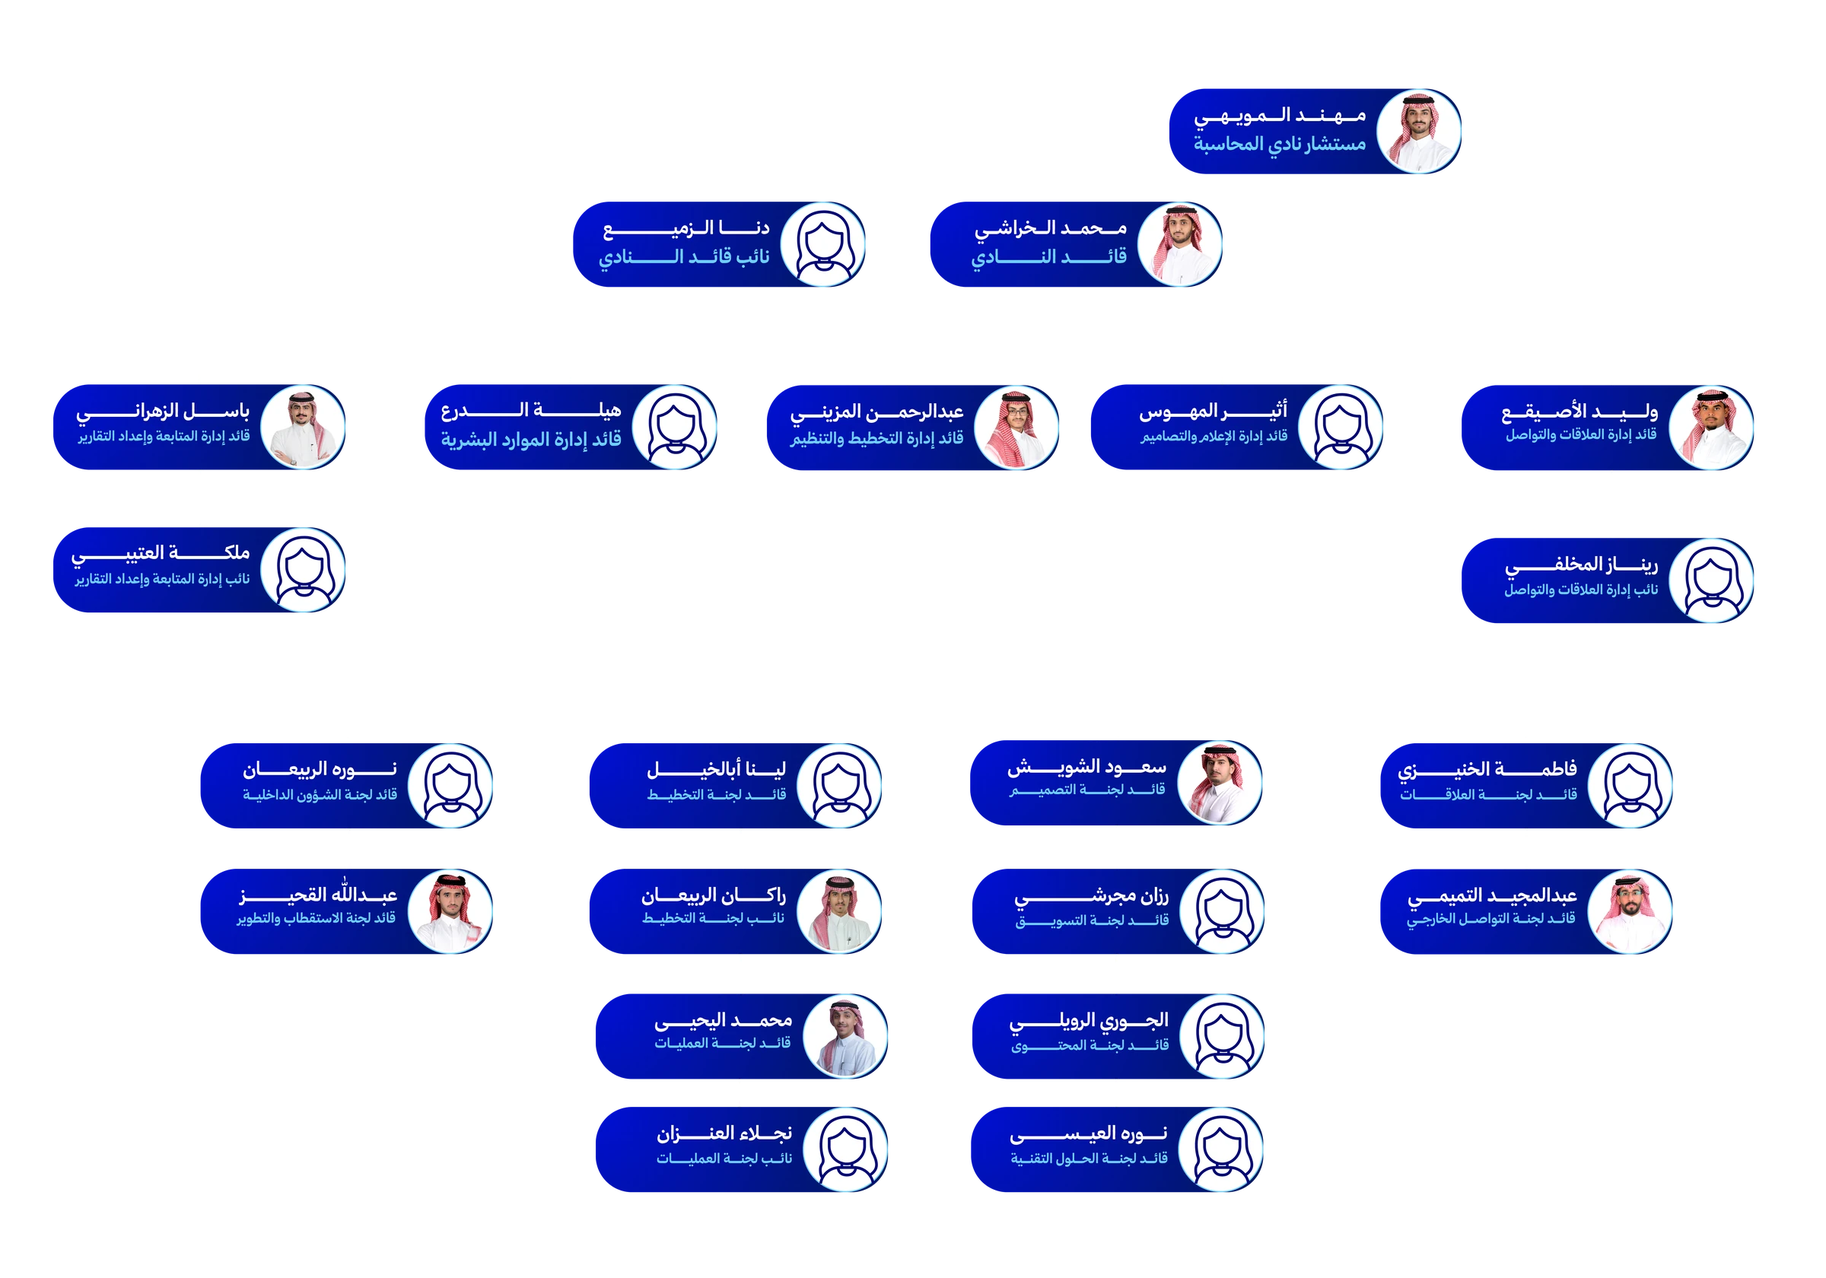
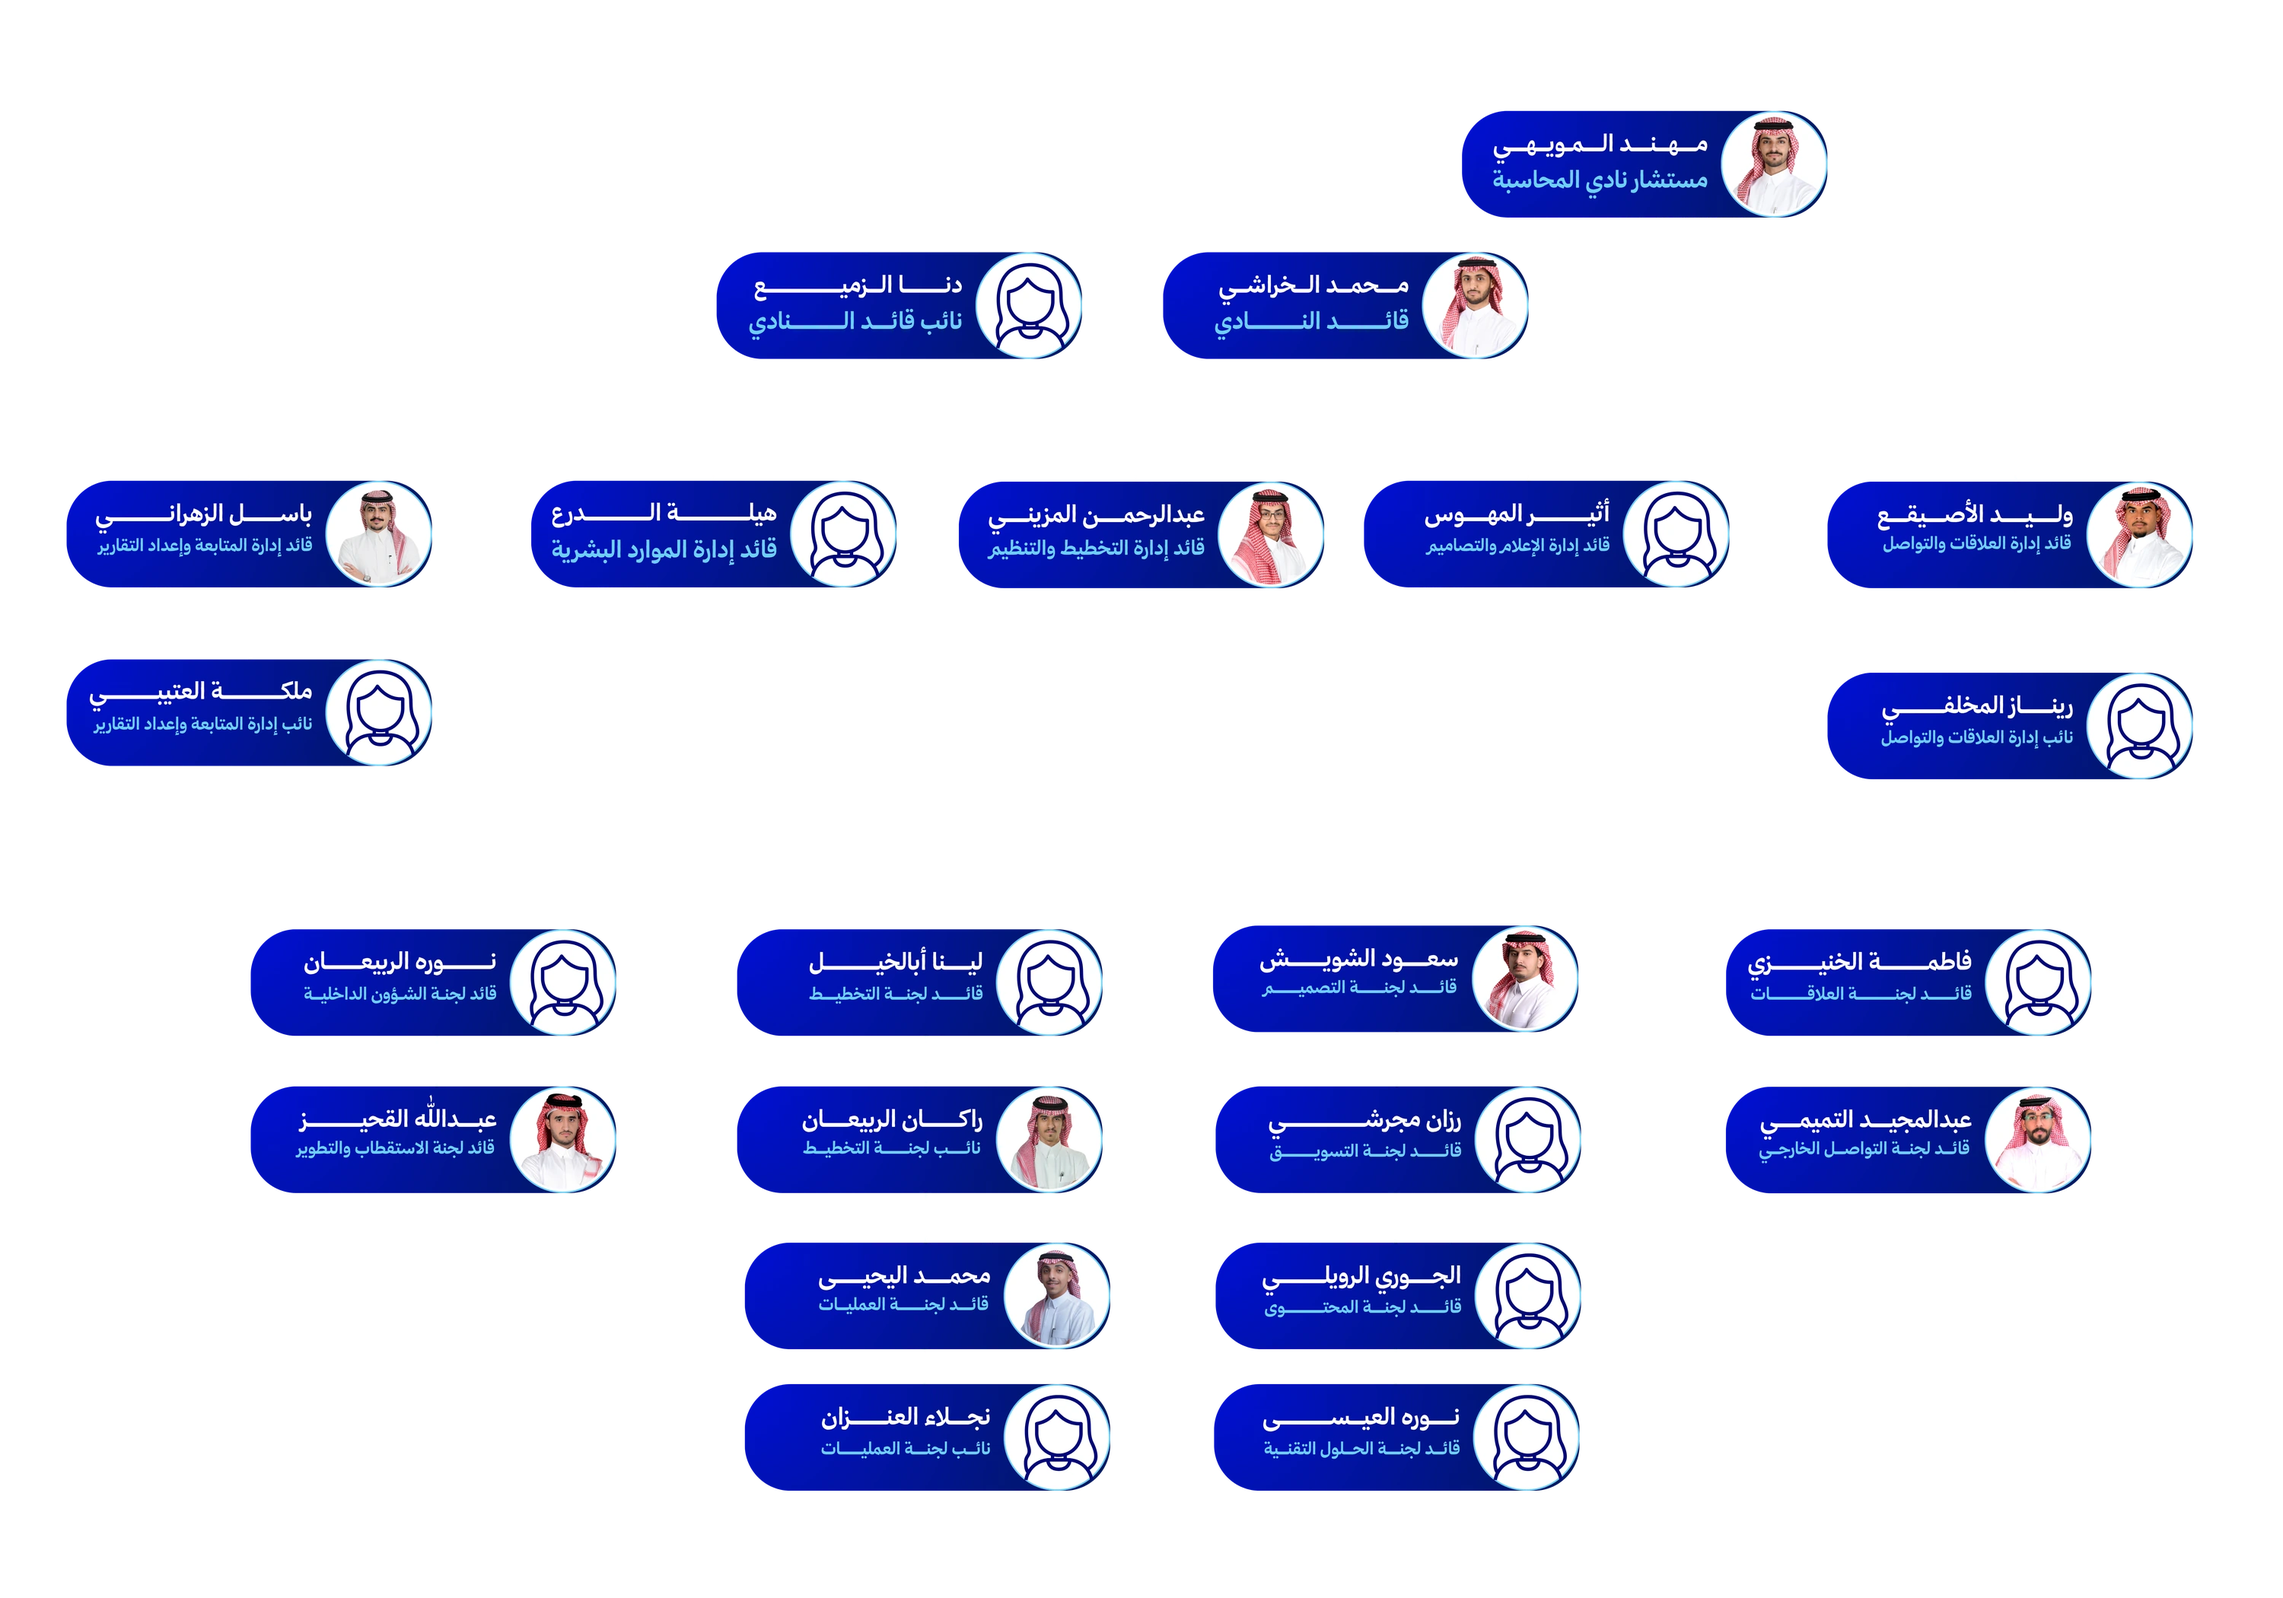
Remove border around org chart, improve image quality/sizing
- Regenerated the WebP at higher resolution/quality (3000px, q93)
  instead of the earlier 2400px/q90 pass.
- Dropped the 1px white border and let the image blend directly
  into the section background.
- Widened the container to the site's standard max width instead
  of the narrower 900px box, and made it horizontally scrollable
  on small screens (fixed height) instead of shrinking the whole
  chart down to unreadable text.

Claude-Session: https://claude.ai/code/session_01ADyhXzV38KpNXX9unwkge5

diff --git a/styles.css b/styles.css
@@ -517,13 +517,16 @@
     background:radial-gradient(circle, rgba(108,207,246,.25), transparent 70%);
     pointer-events:none;
   }
-  .membership-box{position:relative;z-index:1;max-width:900px;margin:0 auto;text-align:center;}
+  .membership-box{position:relative;z-index:1;max-width:100%;margin:0 auto;text-align:center;}
   .membership .eyebrow{color:var(--sky);justify-content:center;}
   .membership h2{color:var(--white);}
   .membership p.section-copy{color:rgba(255,255,255,.75);margin-bottom:36px;}
+  .org-chart-scroll{overflow-x:auto;}
   .org-chart-img{
-    max-width:100%;height:auto;border-radius:16px;
-    border:1px solid rgba(255,255,255,.18);
+    max-width:100%;height:auto;display:block;margin:0 auto;
+  }
+  @media (max-width:720px){
+    .org-chart-img{max-width:none;height:520px;}
   }
 
   /* ============ CONTACT / FOOTER ============ */

diff --git a/index.html b/index.html
@@ -570,7 +570,9 @@
   <div class="wrap">
     <div class="membership-box" data-reveal>
       <h2 class="section-label" style="color:var(--white);">هيكلة النادي للفصل الدراسي الأول لعام ١٤٤٨هـ</h2>
-      <img class="org-chart-img" src="org-chart.webp" alt="الهيكل التنظيمي لنادي المحاسبة">
+      <div class="org-chart-scroll">
+        <img class="org-chart-img" src="org-chart.webp" alt="الهيكل التنظيمي لنادي المحاسبة">
+      </div>
     </div>
   </div>
 </section>
